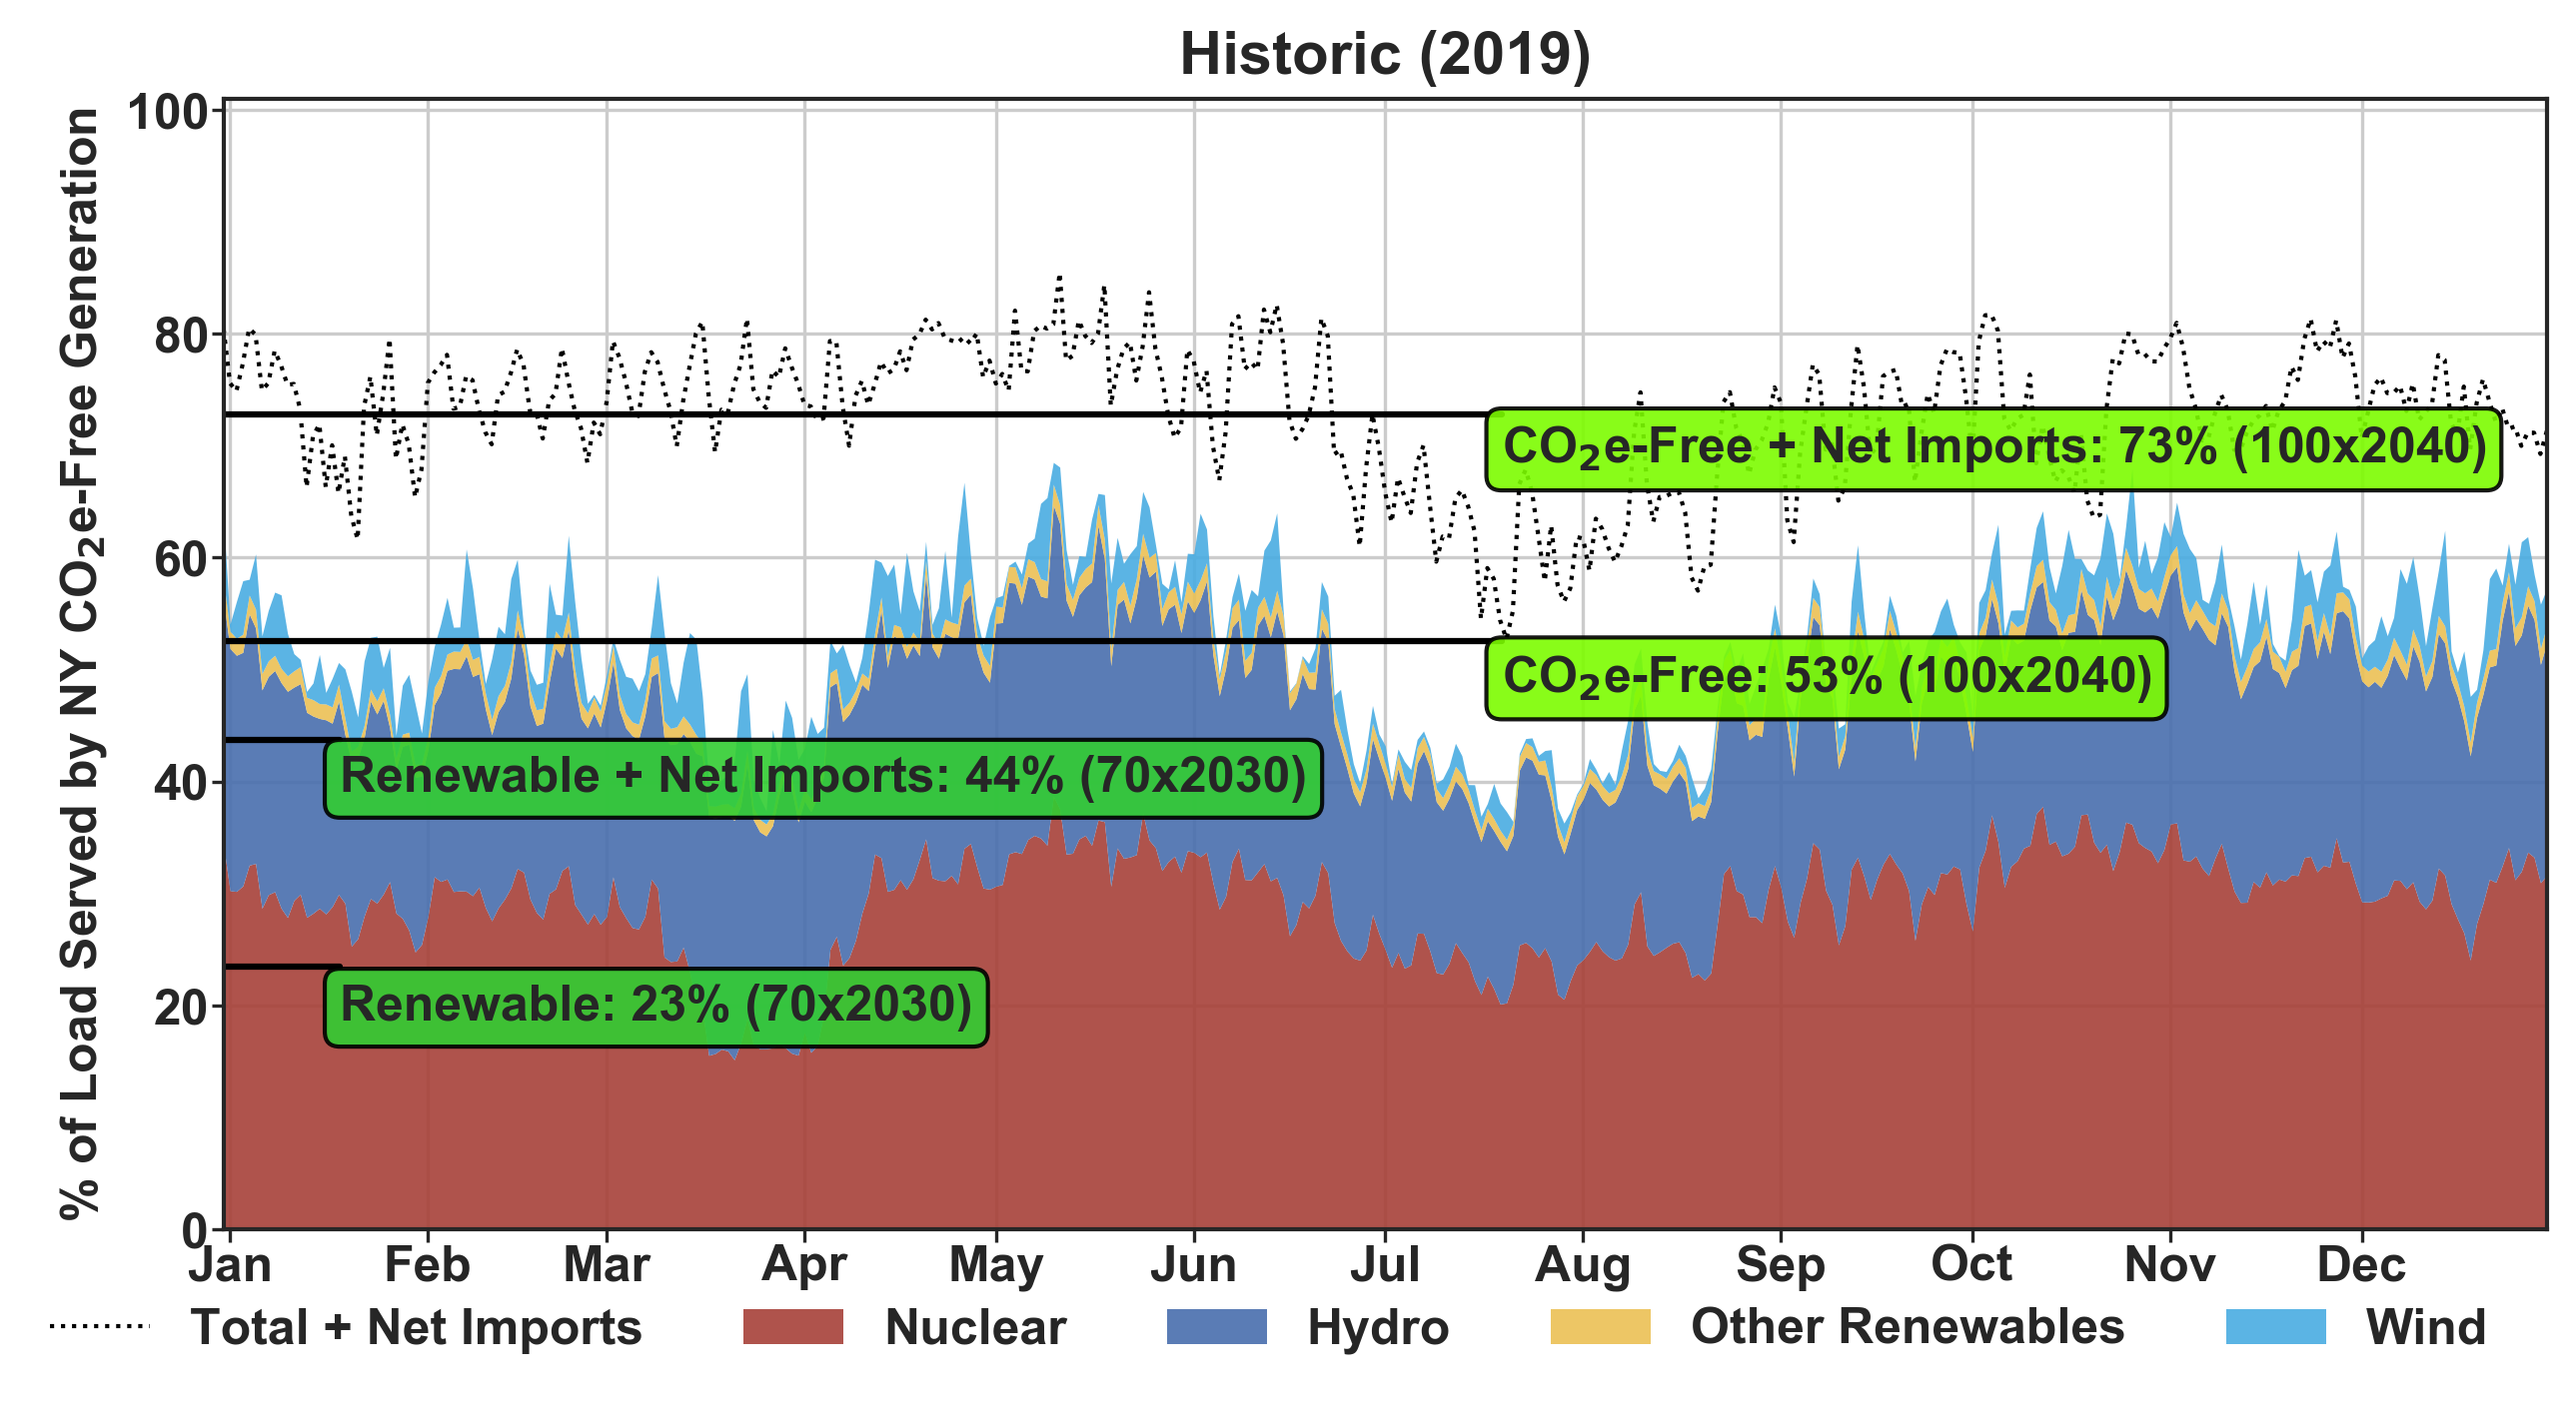
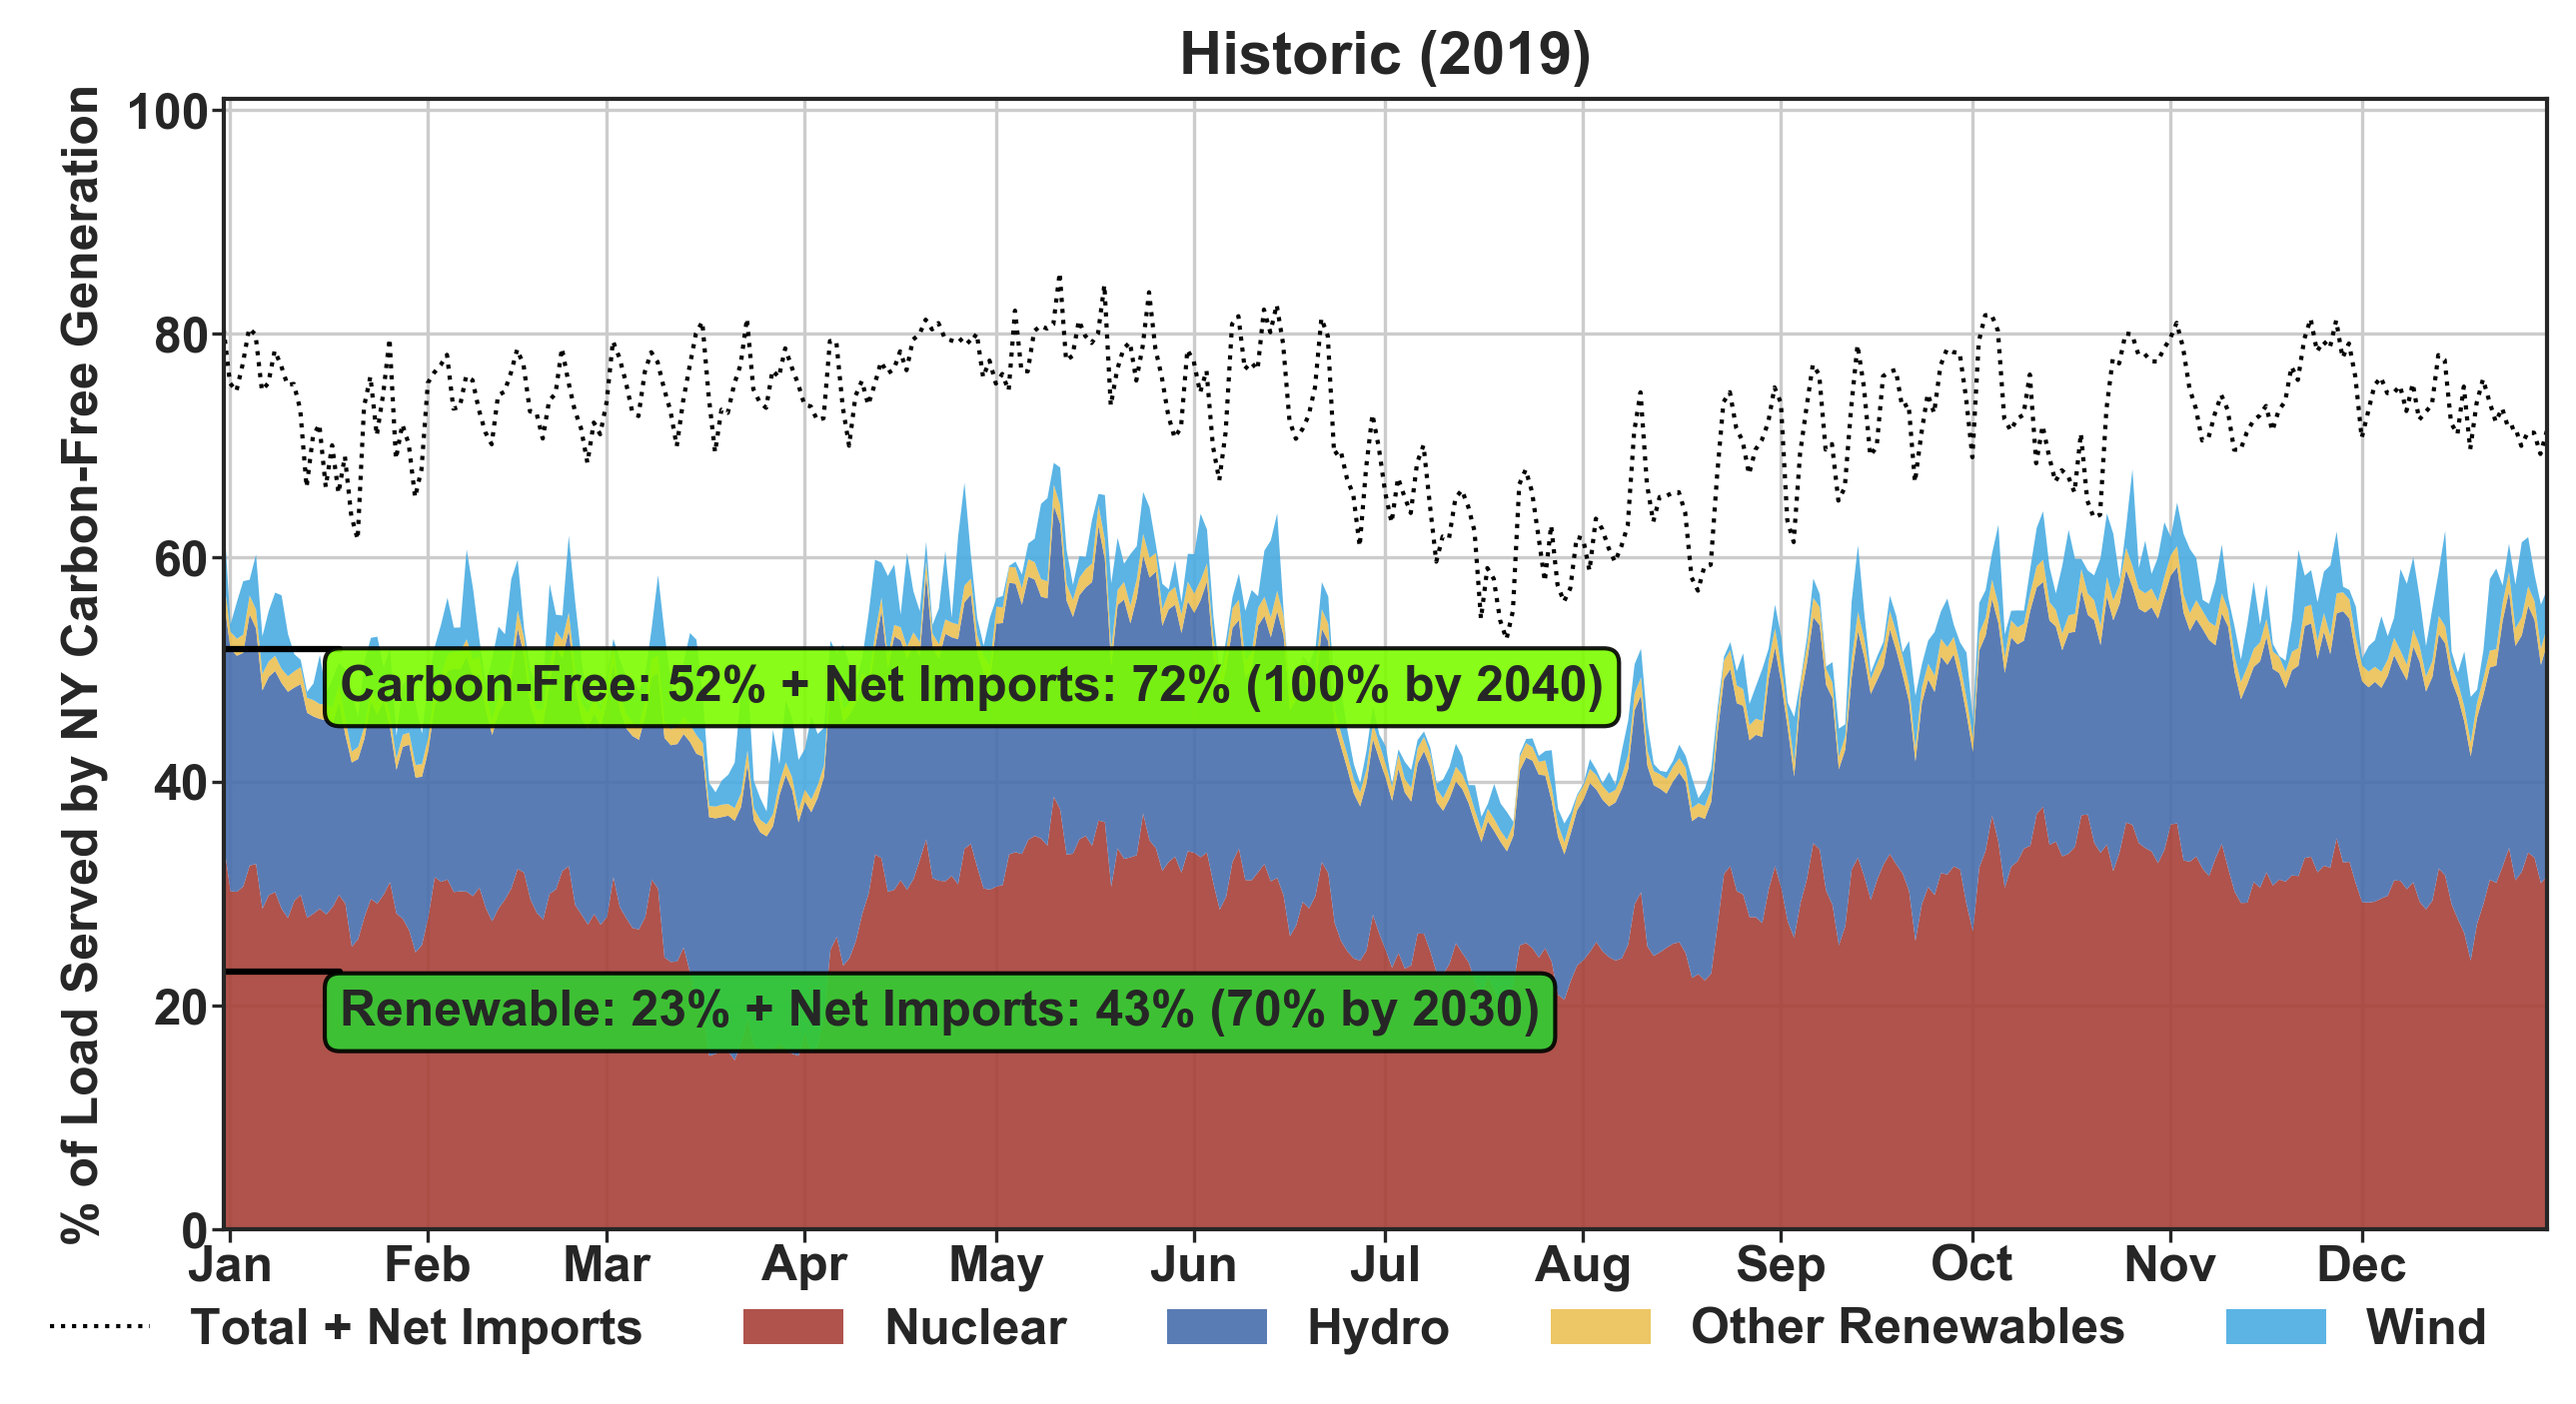
Updated carbon-free graphic to show annual status to clcpa goals

diff --git a/nyisovis.py b/nyisovis.py
@@ -80,7 +80,8 @@ class NYISOVis:
         
                 
     @staticmethod
-    def fig_clcpa_carbon_free(year='2019', sort=False, f='D', out_dir = pl.Path(c_dir,'visualizations')):
+    def fig_clcpa_carbon_free(year='2019', f='D',
+                              out_dir = pl.Path(c_dir,'visualizations')):
         """
         Inspiration: NYISO Power Trends 2020 - Figure 12: Production of In-State Renewables & Zero-Emission Resources Relative to 2019 Load 
         """
@@ -98,23 +99,17 @@ class NYISOVis:
         load = (load * 1/12).resample(f).sum()  
         fuel_mix = (fuel_mix * 1/12).resample(f).sum()   
         imports = (imports * 1/12 ).resample(f).sum()
-        
-        #Add Imports to fuel mix
-        fuel_mix['Net Imports'] = imports
+        fuel_mix['Net Imports'] = imports #Add Imports to fuel mix
     
-        #Calculating Energy Fraction [%]
+        #Calculating Carbon-free Fraction [%]
         ef = fuel_mix.div(load, axis='index') * 100
         carbonfree_sources = ['Nuclear','Hydro','Other Renewables','Wind']
         ef['percent_carbon_free'] = ef[carbonfree_sources].sum(axis='columns')
                     
-        #Plot Generation
+        #Plot Carbon-free Fraction
         fig, ax = plt.subplots(figsize=(10,5), dpi=300)
         plt.title(f'Historic ({year})')
-        if sort:
-            df = ef.sort_values('percent_carbon_free', ascending=True)[carbonfree_sources]
-            df.reset_index(inplace=True, drop=True)
-        else:
-            df = ef[carbonfree_sources] #plot only carbon free resources
+        df = ef[carbonfree_sources] #plot only carbon free resources
         df.plot.area(ax=ax,
                      color=[LEGEND_DEETS.get(x, '#333333') for x in df.columns],
                      alpha=0.9, lw=0)
@@ -122,64 +117,45 @@ class NYISOVis:
         
         #Plot Import Line
         gen_imp = ef[carbonfree_sources+['Net Imports']].sum(axis='columns')
-        gen_imp.plot.line(ax=ax,linestyle='dotted', linewidth=1, color='k', label='Total + Net Imports')
-        
-        #Plot Averages and Goals
+        gen_imp.plot.line(ax=ax,linestyle='dotted',
+                          linewidth=1, color='k', label='Total + Net Imports')
+    
+        #Plot Goals and Progress
         data = [[t for t in carbonfree_sources if t!='Nuclear'],
-                [t for t in carbonfree_sources if t!='Nuclear']+['Net Imports'],
-                carbonfree_sources, 
-                carbonfree_sources+['Net Imports']]
-        averages = ['Renewable: {:.0f}% (70x2030)',
-                    'Renewable + Net Imports: {:.0f}% (70x2030)',
-                    'CO$_2$e-Free: {:.0f}% (100x2040)',
-                    'CO$_2$e-Free + Net Imports: {:.0f}% (100x2040)']
-        colors = ['limegreen','limegreen','lawngreen','lawngreen']
-        h_distances = [0.05,0.05,0.55,0.55]
+                carbonfree_sources]
+        averages = ['Renewable: {:.0f}% + Net Imports: {:.0f}% (70% by 2030)',
+                    'Carbon-Free: {:.0f}% + Net Imports: {:.0f}% (100% by 2040)']
+        colors = ['limegreen','lawngreen']
+        h_distances = [0.05, 0.05]
         for t,l,c,h in zip(data, averages,colors,h_distances):
-            avg = ef[t].sum(axis='columns').mean()
+            avg = fuel_mix[t].sum(axis='index').sum() / load.sum(axis='index') * 100
+            avg_imp = fuel_mix[t+['Net Imports']].sum(axis='index').sum() / load.sum(axis='index') * 100
             plt.axhline(y=avg, xmax=h, color='k', linestyle='solid', lw=1.5)
-            vert_disp= 0.05
-            plt.text(h, avg/100-vert_disp, l.format(avg), 
-                     bbox=dict(boxstyle="round",ec='black',fc=c, alpha=0.9),
+            vert_disp = 0.05
+            plt.text(h, avg/100-vert_disp, l.format(avg, avg_imp), 
+                     bbox=dict(boxstyle='round',ec='black',fc=c, alpha=0.9),
                      transform=ax.transAxes)
-
-        if sort:
-            #Legend
-            ax.legend(loc='lower center', bbox_to_anchor=(0.5, -0.15),
-                      ncol=4, fancybox=True, shadow=False)
-            #Axes
-            plt.xlabel('Days of the Year')
-            plt.xticks([])
-            plt.xlim(ef.index[0], ef.index[-1])
-            #daily average
-            avg=ef[carbonfree_sources].sum(axis='columns').mean()
-            plt.axhline(y=avg, color='k', linestyle='dashed')
-            plt.text(0.1, 0.75,'Average: {:.0f}%'.format(avg), transform=ax.transAxes)
-            #save
-            file = pl.Path(out_dir, f'{year}_clcpa_carbon_free_sorted.png')
-            plt.savefig(file)
-        else:
-            #Legend
-            handles, labels = ax.get_legend_handles_labels()
-            ax.legend(loc='lower center',bbox_to_anchor=(0.45, -0.15),
-                      ncol=5, fancybox=True, shadow=False)
-            #Axes
-            plt.ylim(0,101)
-            plt.xlim(ef.index[0], ef.index[-1])
-            plt.xlabel('')
-            plt.ylabel('% of Load Served by NY CO$_2$e-Free Generation')
-            if f!='M':
-                locator = mdates.MonthLocator()
-                ax.xaxis.set_major_locator(locator)
-                ax.xaxis.set_major_formatter(mdates.DateFormatter('%b'))
-                plt.xticks(rotation=0)
-                for tick in ax.xaxis.get_major_ticks() + ax.yaxis.get_major_ticks():
-                    tick.tick1line.set_markersize(3)
-                    tick.tick2line.set_markersize(3)
-                for tick in ax.xaxis.get_major_ticks(): tick.label1.set_horizontalalignment('center')
-            #Save
-            file = pl.Path(out_dir, f'{year}_clcpa_carbon_free.png')
-            plt.savefig(file, bbox_inches='tight')
+        #Legend
+        handles, labels = ax.get_legend_handles_labels()
+        ax.legend(loc='lower center',bbox_to_anchor=(0.45, -0.15),
+                  ncol=5, fancybox=True, shadow=False)
+        #Axes
+        plt.ylim(0,101)
+        plt.xlim(ef.index[0], ef.index[-1])
+        plt.xlabel('')
+        plt.ylabel('% of Load Served by NY Carbon-Free Generation')
+        if f!='M':
+            locator = mdates.MonthLocator()
+            ax.xaxis.set_major_locator(locator)
+            ax.xaxis.set_major_formatter(mdates.DateFormatter('%b'))
+            plt.xticks(rotation=0)
+            for tick in ax.xaxis.get_major_ticks() + ax.yaxis.get_major_ticks():
+                tick.tick1line.set_markersize(3)
+                tick.tick2line.set_markersize(3)
+            for tick in ax.xaxis.get_major_ticks(): tick.label1.set_horizontalalignment('center')
+        #Save
+        file = pl.Path(out_dir, f'{year}_clcpa_carbon_free.png')
+        plt.savefig(file, bbox_inches='tight')
             
     @staticmethod
     def fig_carbon_free_year(year='2019', out_dir = pl.Path(c_dir,'visualizations')):
@@ -228,6 +204,6 @@ class NYISOVis:
         return
             
 if __name__ == '__main__':
-    NYISOVis.fig_energy(year='2019',f='D')
+    NYISOVis.fig_energy(year='2019', f='D')
     NYISOVis.fig_carbon_free_year(year='2019')
-    NYISOVis.fig_clcpa_carbon_free(year='2019', sort=False, f='D')
+    NYISOVis.fig_clcpa_carbon_free(year='2020', f='D')

diff --git a/nyisostat.py b/nyisostat.py
@@ -5,7 +5,30 @@ import pandas as pd
 
 
 class NYISOStat:
+    #general
+    @staticmethod
+    def table_hourly_dataset(dataset,year):
+        df = NYISOData(dataset=dataset,year=year).df.tz_convert('US/Eastern') #MW
+        df = (df * 1/12).resample('H').sum()/1000  #MW->MWh->GWh
+        return df
     
+    @staticmethod
+    def table_average_day_dataset(dataset, year):
+        if dataset == 'load_5m':
+            df = NYISOStat.table_average_day_load(year)
+        else:
+            df = NYISOStat.table_hourly_dataset(dataset=dataset,year=year)
+        df = df.groupby(df.index.hour).mean()
+        return df
+        
+    @staticmethod
+    def table_average_day_load(year):
+        df = NYISOStat.table_hourly_dataset(dataset='load_5m',year=year)['NYCA']
+        df = pd.DataFrame(df).rename(columns={'NYCA':'Load'})
+        df2 = NYISOStat.table_hourly_dataset(dataset='fuel_mix_5m',year=year)[['Wind','Other Renewables']].sum(axis='columns')
+        df['Net Load'] = df.subtract(df2,axis='index')
+        return df
+        
     @staticmethod
     def table_annual_energy(year='2019'):
         """
@@ -38,3 +61,26 @@ class NYISOStat:
         df.loc['Load'] = load
         df[f'Historic ({year}) [% of Load]'] = df/load*100
         return df
+    
+    #Interface Flows
+    @staticmethod
+    def table_instate_flow(year):
+        """Flow between Upstate and Downstate"""
+        df = NYISOData('interface_flows_5m',year).df.tz_convert('US/Eastern')
+        df = df[df['Interface Name']=='TOTAL EAST']['Flow (MW)']
+        df = (df * 1/12).resample('H').sum()/1000  #MW->MWh->GWh
+        return df
+    
+    @staticmethod
+    def table_average_day_instate_flow(year):
+        df = NYISOStat.table_instate_flow(year) #GWh
+        df = df.groupby(df.index.hour).mean() 
+        return df
+    
+    @staticmethod
+    def table_max_day_instate_flow(year):
+        df = NYISOStat.table_instate_flow(year) #GWh
+        date = df.idxmax()
+        df = df.loc[date.strftime("%Y-%m-%d")]
+        df.index = df.index.hour
+        return df 
